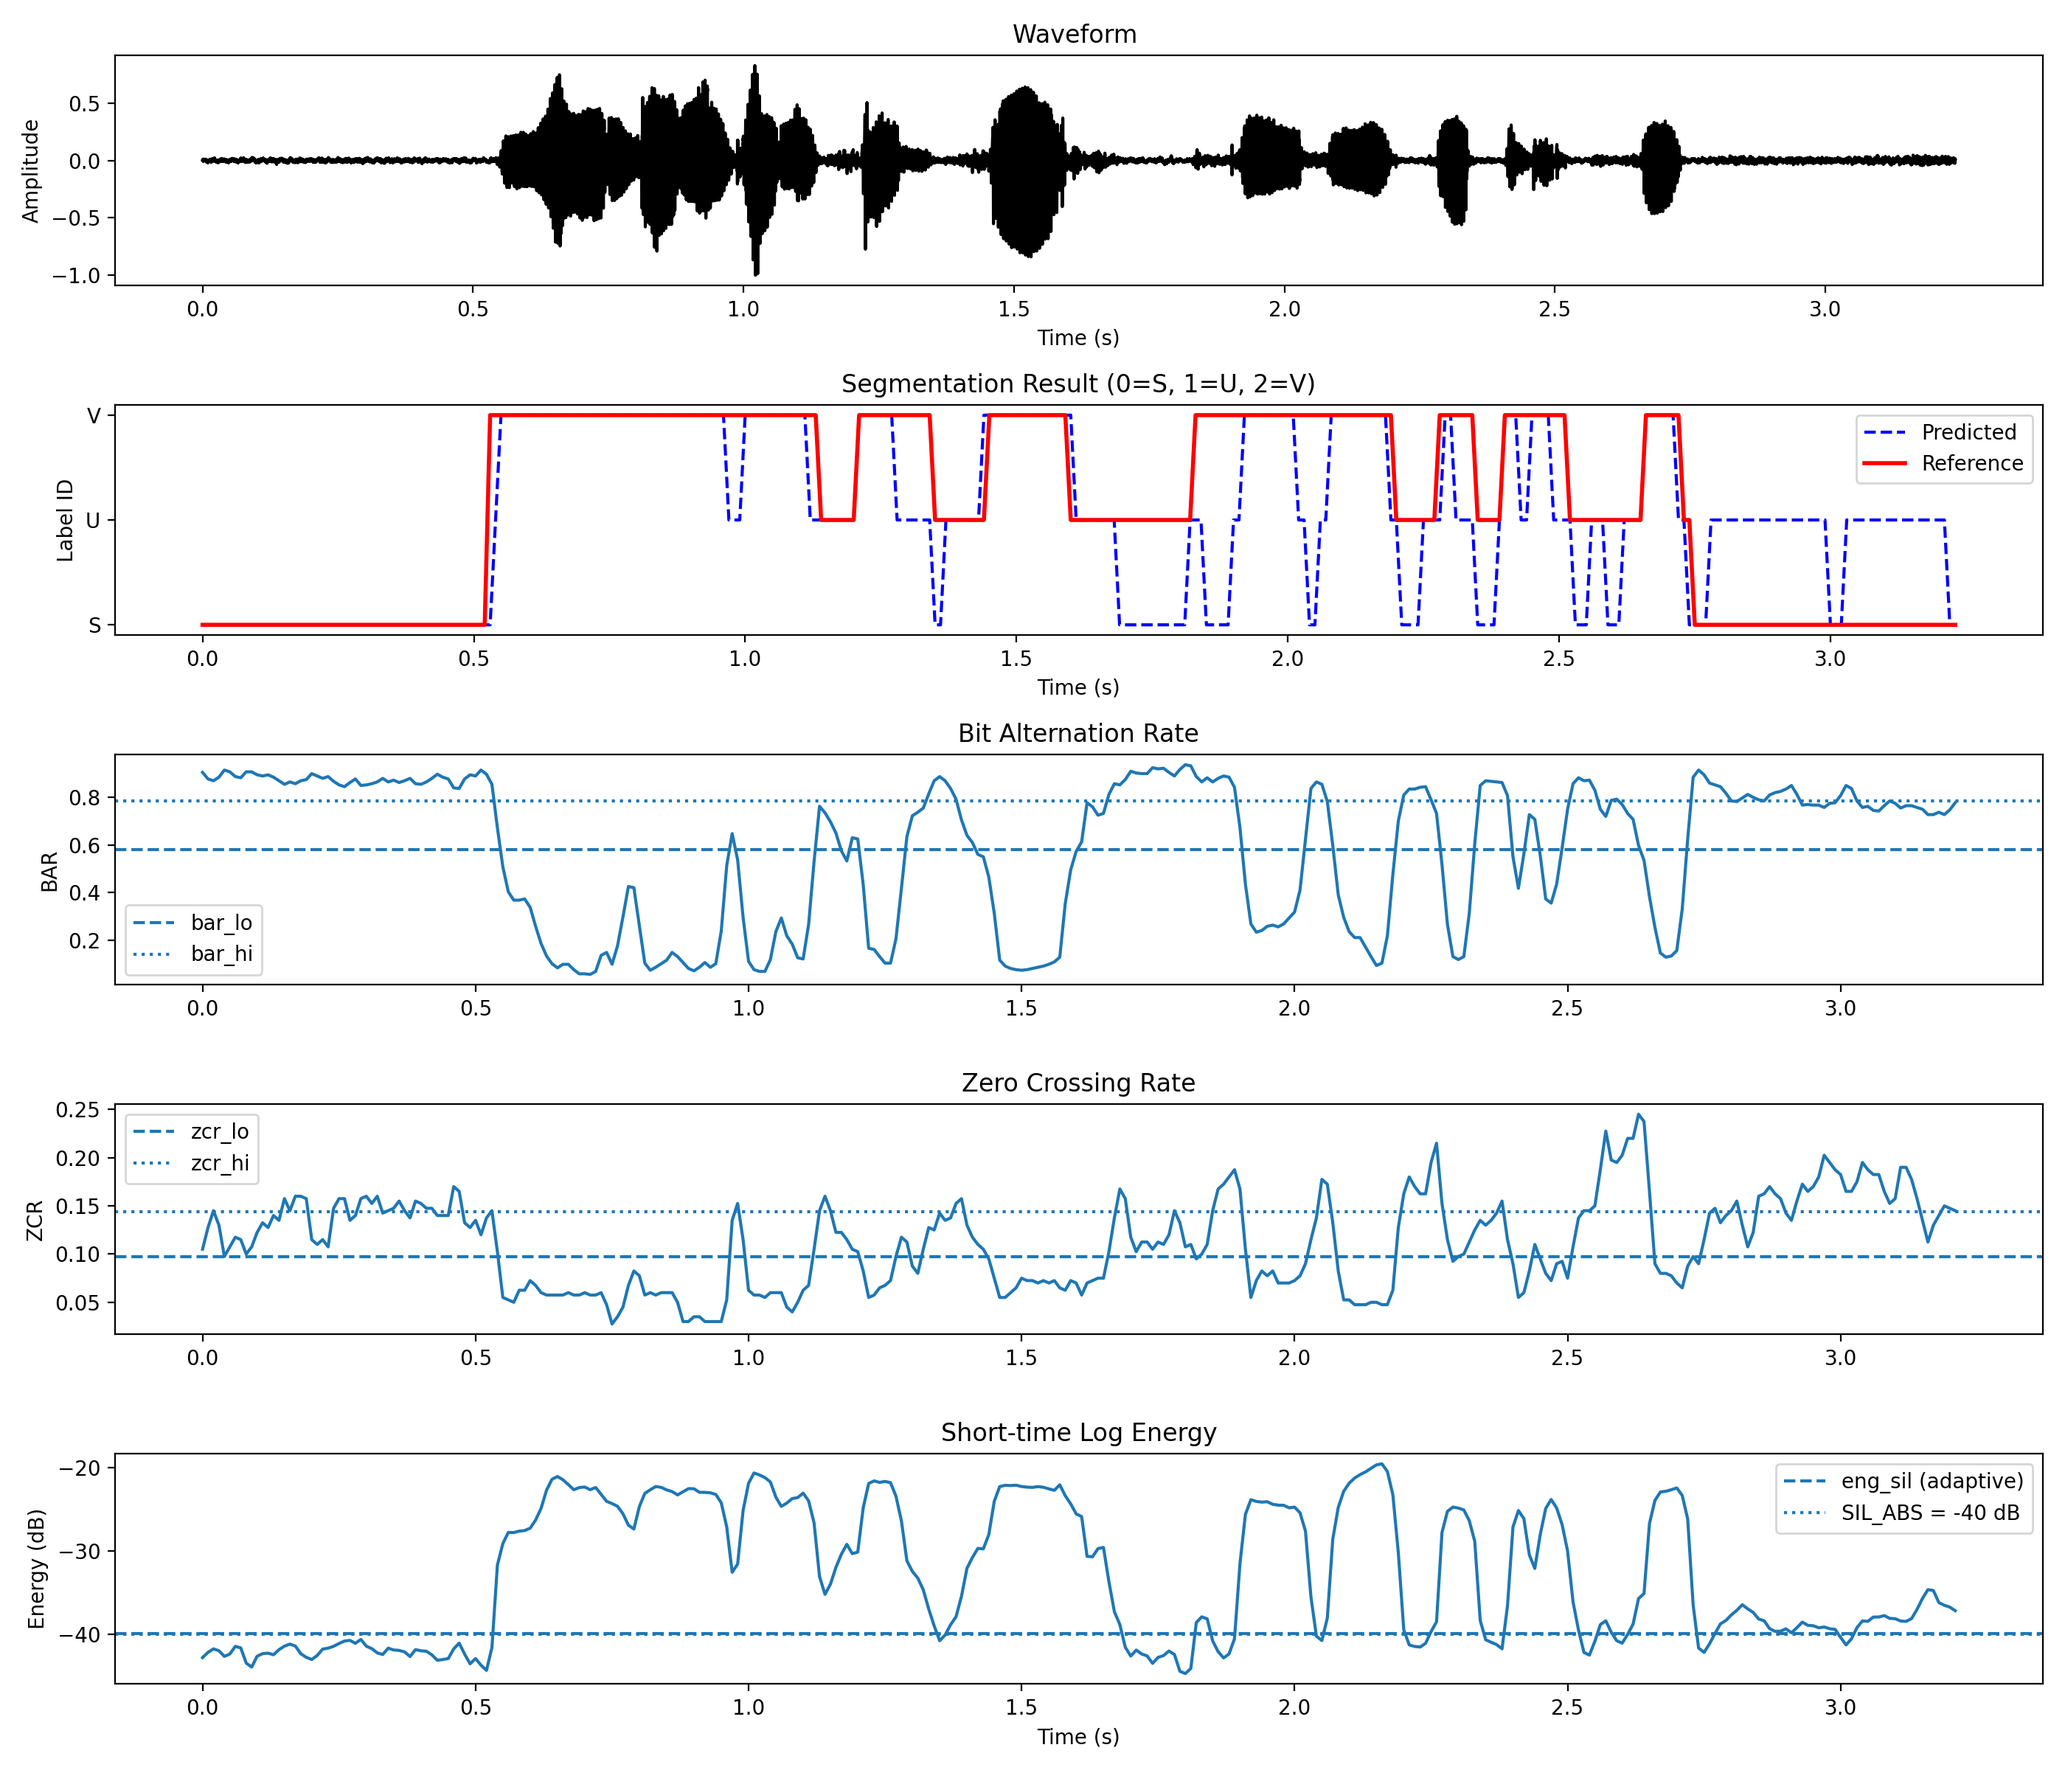
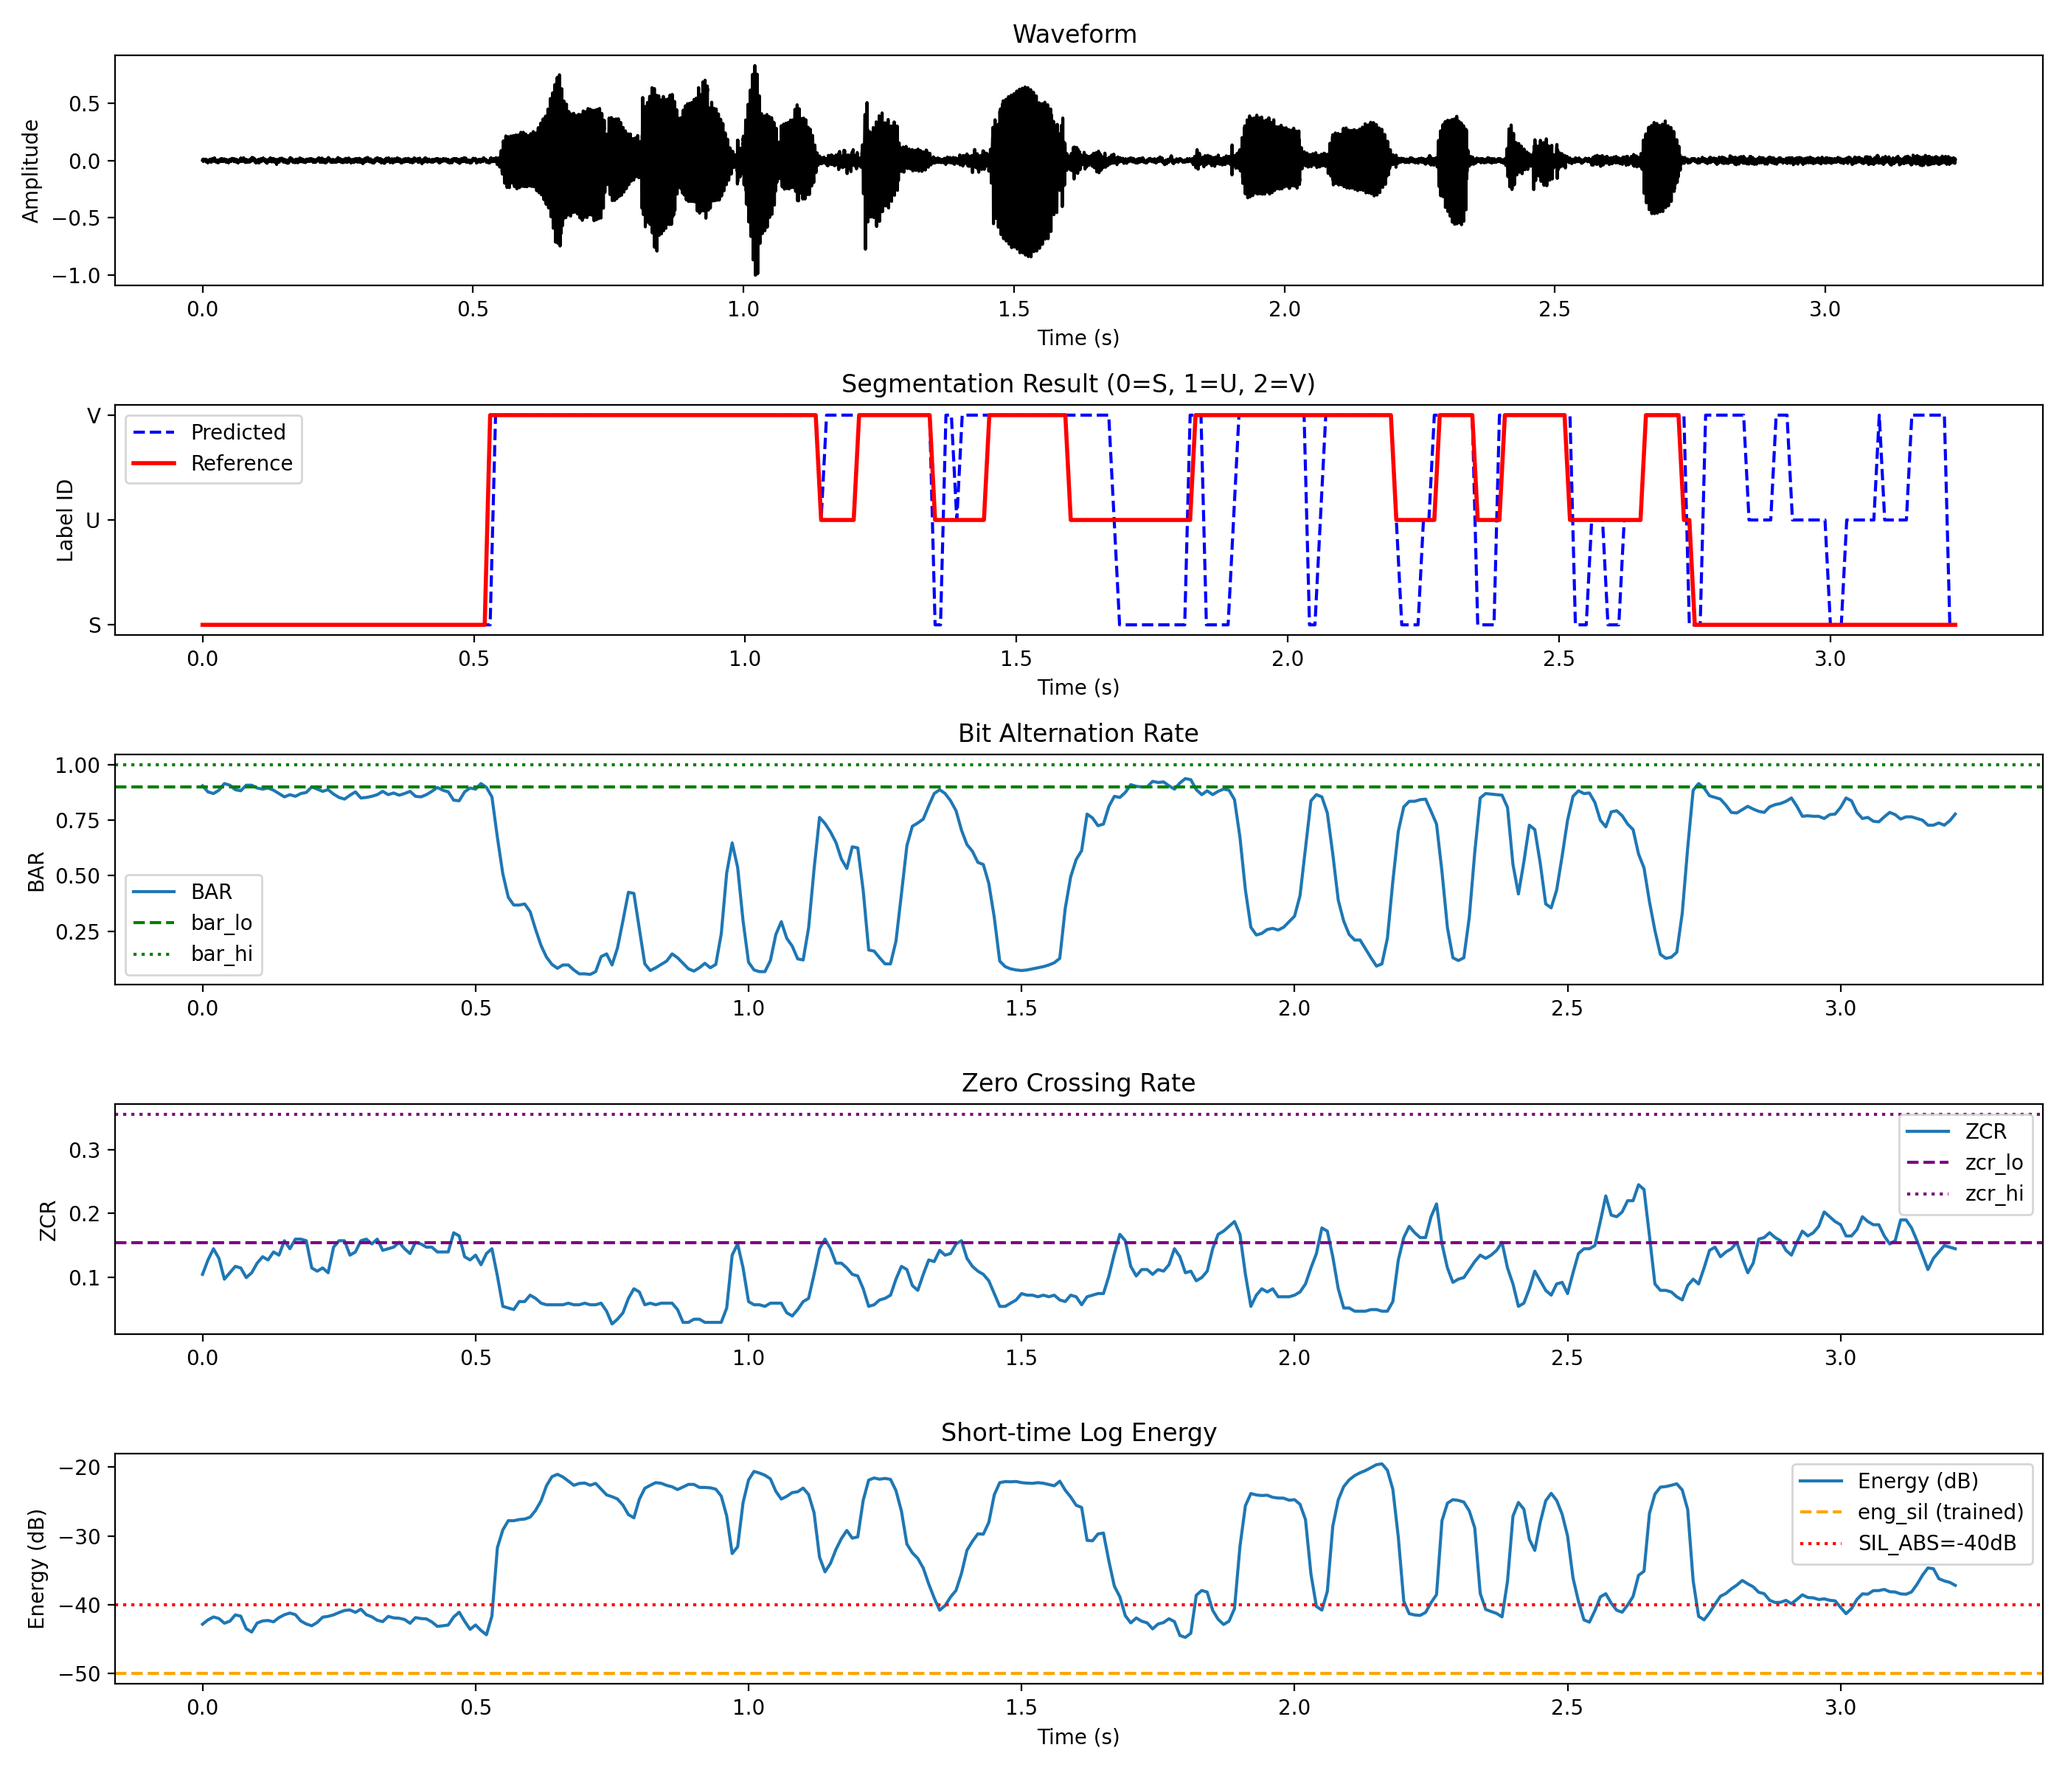
Bài tập 1 - XLTN - Phan Thanh Việt - 102220259

diff --git a/SUV_Classification_by_LDM/baitap1.py b/SUV_Classification_by_LDM/baitap1.py
@@ -3,9 +3,10 @@ import librosa
 import matplotlib.pyplot as plt
 from scipy.signal import butter, lfilter
 import os
+from itertools import product
 
 # =========================
-# 1) Linear Delta Modulation (LDM)
+# 1) LDM encode/decode
 # =========================
 def ldm_encode(x, step=0.02, x0=0.0):
     x = np.asarray(x, dtype=np.float64)
@@ -78,43 +79,26 @@ def extract_features(bits, y_dec_bp, fs, frame_ms=25, hop_ms=10):
     return feats, times, win, hop
 
 # =========================
-# 4) Adaptive thresholds
-# =========================
-def adaptive_thresholds(feats):
-    bar, zcr, eng = feats[:,0], feats[:,1], feats[:,2]
-    return dict(
-        bar_lo = np.percentile(bar, 40),
-        bar_hi = np.percentile(bar, 60),
-        zcr_lo = np.percentile(zcr, 40),
-        zcr_hi = np.percentile(zcr, 70),
-        eng_sil = np.percentile(eng, 30)
-
-    )
-
-# =========================
-# 5) Frame classification
+# 4) Frame classification
 # =========================
 def classify_frames(feats, thr):
     bar, zcr, eng = feats[:,0], feats[:,1], feats[:,2]
     labels = np.empty(len(feats), dtype='<U1')
 
-    # Silence
     SIL_ABS = -40
     sil_mask = (eng <= thr['eng_sil']) | (eng <= SIL_ABS)
     labels[sil_mask] = 'S'
 
-    # Voiced
     voiced_mask = (~sil_mask) & (bar <= thr['bar_lo']) & (zcr <= thr['zcr_lo'])
     labels[voiced_mask] = 'V'
 
-    # Unvoiced
     unvoiced_mask = (~sil_mask) & (~voiced_mask)
     labels[unvoiced_mask] = 'U'
 
     return labels
 
 # =========================
-# 6) Segment reconstruction
+# 5) Segment reconstruction
 # =========================
 def intervals_from_labels(times, labels, hop_ms):
     hop_sec = hop_ms/1000.0
@@ -128,7 +112,7 @@ def intervals_from_labels(times, labels, hop_ms):
     return segs
 
 # =========================
-# 7) Load reference labels
+# 6) Load reference labels
 # =========================
 def load_label_file(label_path):
     segs = []
@@ -147,7 +131,7 @@ def load_label_file(label_path):
     return segs
 
 # =========================
-# 8) MAE between boundaries
+# 7) MAE between boundaries
 # =========================
 def boundary_mae(segs_pred, segs_ref):
     b_pred = []
@@ -169,7 +153,7 @@ def boundary_mae(segs_pred, segs_ref):
     return float(np.mean(dists)), b_pred, b_ref
 
 # =========================
-# 9) Visualization (modified)
+# 8) Visualization
 # =========================
 def label_to_num(lab):
     if lab == 'S': return 0
@@ -190,7 +174,7 @@ def expand_segments(segs, hop_ms, fs, total_len):
 def plot_suving(x, fs, times, labels, feats, segs_pred, segs_ref=None, thr=None, hop_ms=10, save_png='suving_result.png'):
     plt.figure(figsize=(14,12))
 
-    # --- 1) Waveform only ---
+    # Waveform
     ax1 = plt.subplot(5,1,1)
     t = np.arange(len(x))/fs
     ax1.plot(t, x, color='black')
@@ -198,7 +182,7 @@ def plot_suving(x, fs, times, labels, feats, segs_pred, segs_ref=None, thr=None,
     ax1.set_xlabel('Time (s)')
     ax1.set_ylabel('Amplitude')
 
-    # --- 2) Segmentation comparison ---
+    # Segmentation
     ax2 = plt.subplot(5,1,2)
     pred_arr = expand_segments(segs_pred, hop_ms, fs, len(x))
     t_frames = np.arange(len(pred_arr)) * (hop_ms/1000.0)
@@ -213,35 +197,35 @@ def plot_suving(x, fs, times, labels, feats, segs_pred, segs_ref=None, thr=None,
     ax2.set_yticklabels(['S','U','V'])
     ax2.legend()
 
-    # --- 3) Feature plots ---
+    # Feature plots
     bar, zcr, eng = feats[:,0], feats[:,1], feats[:,2]
 
     ax3 = plt.subplot(5,1,3)
-    ax3.plot(times, bar)
+    ax3.plot(times, bar, label='BAR')
     ax3.set_ylabel('BAR')
     ax3.set_title('Bit Alternation Rate')
     if thr is not None:
-        ax3.axhline(thr.get('bar_lo', np.nan), linestyle='--', label='bar_lo')
-        ax3.axhline(thr.get('bar_hi', np.nan), linestyle=':', label='bar_hi')
+        ax3.axhline(thr.get('bar_lo', np.nan), linestyle='--', color='green', label='bar_lo')
+        ax3.axhline(thr.get('bar_hi', np.nan), linestyle=':', color='green', label='bar_hi')
         ax3.legend()
 
     ax4 = plt.subplot(5,1,4)
-    ax4.plot(times, zcr)
+    ax4.plot(times, zcr, label='ZCR')
     ax4.set_ylabel('ZCR')
     ax4.set_title('Zero Crossing Rate')
     if thr is not None:
-        ax4.axhline(thr.get('zcr_lo', np.nan), linestyle='--', label='zcr_lo')
-        ax4.axhline(thr.get('zcr_hi', np.nan), linestyle=':', label='zcr_hi')
+        ax4.axhline(thr.get('zcr_lo', np.nan), linestyle='--', color='purple', label='zcr_lo')
+        ax4.axhline(thr.get('zcr_hi', np.nan), linestyle=':', color='purple', label='zcr_hi')
         ax4.legend()
 
     ax5 = plt.subplot(5,1,5)
-    ax5.plot(times, eng)
+    ax5.plot(times, eng, label='Energy (dB)')
     ax5.set_ylabel('Energy (dB)')
     ax5.set_xlabel('Time (s)')
     ax5.set_title('Short-time Log Energy')
     if thr is not None:
-        ax5.axhline(thr.get('eng_sil', np.nan), linestyle='--', label='eng_sil (adaptive)')
-        ax5.axhline(-40, linestyle=':', label='SIL_ABS = -40 dB')
+        ax5.axhline(thr.get('eng_sil', np.nan), linestyle='--', color='orange', label='eng_sil (trained)')
+        ax5.axhline(-40, linestyle=':', color='red', label='SIL_ABS=-40dB')
         ax5.legend()
 
     plt.tight_layout()
@@ -249,27 +233,116 @@ def plot_suving(x, fs, times, labels, feats, segs_pred, segs_ref=None, thr=None,
     plt.show()
 
 # =========================
-# 10) Full pipeline
+# 9) Labels utility
 # =========================
-def suving_pipeline(wav_path, label_path, frame_ms=25, hop_ms=10, ldm_step=0.02, target_fs=16000, save_png='suving_result.png'):
+def labels_from_file(label_path, times, hop_ms):
+    segs = load_label_file(label_path)
+    arr = np.empty(len(times), dtype='<U1')
+    idx = 0
+    for s,e,L in segs:
+        while idx < len(times) and times[idx] < s:
+            arr[idx] = 'S'
+            idx +=1
+        while idx < len(times) and times[idx] <= e:
+            arr[idx] = L
+            idx +=1
+    while idx < len(times):
+        arr[idx] = 'S'
+        idx +=1
+    return arr
+
+def frame_mae(pred_labels, ref_labels):
+    diff = pred_labels != ref_labels
+    return np.mean(diff)
+
+# =========================
+# 10) Trực quan hóa threshold
+# =========================
+def visualize_thresholds(features, thr):
+    bar, zcr, eng = features[:,0], features[:,1], features[:,2]
+
+    plt.figure(figsize=(14,4))
+
+    plt.subplot(1,3,1)
+    plt.hist(bar, bins=50, color='skyblue', alpha=0.7)
+    plt.axvline(thr['bar_lo'], color='green', linestyle='--', label='bar_lo')
+    plt.axvline(thr['bar_hi'], color='green', linestyle=':', label='bar_hi')
+    plt.title('BAR distribution with thresholds'); plt.xlabel('BAR'); plt.ylabel('Count'); plt.legend()
+
+    plt.subplot(1,3,2)
+    plt.hist(zcr, bins=50, color='plum', alpha=0.7)
+    plt.axvline(thr['zcr_lo'], color='purple', linestyle='--', label='zcr_lo')
+    plt.axvline(thr['zcr_hi'], color='purple', linestyle=':', label='zcr_hi')
+    plt.title('ZCR distribution with thresholds'); plt.xlabel('ZCR'); plt.ylabel('Count'); plt.legend()
+
+    plt.subplot(1,3,3)
+    plt.hist(eng, bins=50, color='orange', alpha=0.7)
+    plt.axvline(thr['eng_sil'], color='red', linestyle='--', label='eng_sil')
+    plt.title('Energy distribution with thresholds'); plt.xlabel('Energy (dB)'); plt.ylabel('Count'); plt.legend()
+
+    plt.tight_layout()
+    plt.show()
+
+# =========================
+# 11) Grid search threshold
+# =========================
+def optimize_thresholds(files, frame_ms=25, hop_ms=10, ldm_step=0.02, target_fs=16000):
+    all_feats = []
+    all_labels = []
+
+    for wav_path, lab_path in files:
+        x, fs = librosa.load(wav_path, sr=target_fs, mono=True)
+        x = x / (np.max(np.abs(x)) + 1e-12)
+        bits, y_dec = ldm_encode(x, step=ldm_step)
+        y_dec_bp = bandpass_filter(y_dec, fs)
+        feats, times, win, hop = extract_features(bits, y_dec_bp, fs, frame_ms, hop_ms)
+        labels = labels_from_file(lab_path, times, hop_ms)
+        all_feats.append(feats)
+        all_labels.append(labels)
+
+    all_feats = np.vstack(all_feats)
+    all_labels = np.concatenate(all_labels)
+
+    bar_lo_range = np.linspace(0.1, 0.9, 5)
+    zcr_lo_range = np.linspace(0.01, 0.3, 5)
+    eng_sil_range = np.linspace(-50, -20, 5)
+
+    best_mae = 1.0
+    best_thr = None
+
+    for bar_lo, zcr_lo, eng_sil in product(bar_lo_range, zcr_lo_range, eng_sil_range):
+        thr = dict(bar_lo=bar_lo, zcr_lo=zcr_lo, eng_sil=eng_sil)
+        thr['bar_hi'] = min(bar_lo+0.2,1.0)
+        thr['zcr_hi'] = min(zcr_lo+0.2,1.0)
+        labels_pred = classify_frames(all_feats, thr)
+        mae = frame_mae(labels_pred, all_labels)
+        if mae < best_mae:
+            best_mae = mae
+            best_thr = thr
+
+    print("Training MAE:", best_mae)
+    visualize_thresholds(all_feats, best_thr)
+    return best_thr
+
+# =========================
+# 12) Test file
+# =========================
+def test_file(wav_path, lab_path, thr, frame_ms=25, hop_ms=10, ldm_step=0.02, target_fs=16000, save_png='suving_result.png'):
     x, fs = librosa.load(wav_path, sr=target_fs, mono=True)
-    x = x / (np.max(np.abs(x))+1e-12)
-
+    x = x / (np.max(np.abs(x)) + 1e-12)
     bits, y_dec = ldm_encode(x, step=ldm_step)
-    y_dec_bp = bandpass_filter(y_dec, fs, 300.0, 3400.0)
-
+    y_dec_bp = bandpass_filter(y_dec, fs)
     feats, times, win, hop = extract_features(bits, y_dec_bp, fs, frame_ms, hop_ms)
-    thr = adaptive_thresholds(feats)
     labels = classify_frames(feats, thr)
     segs_pred = intervals_from_labels(times, labels, hop_ms)
-
-    segs_ref = load_label_file(label_path)
+    segs_ref = load_label_file(lab_path)
     mae, b_pred, b_ref = boundary_mae(segs_pred, segs_ref)
-
-    return x, fs, times, labels, feats, segs_pred, segs_ref, thr, mae, b_pred, b_ref
+    plot_suving(x, fs, times, labels, feats, segs_pred, segs_ref, thr, hop_ms, save_png)
+    print(f"File: {wav_path}, MAE = {mae:.3f} sec")
+    return mae
 
 # =========================
-# 11) Example run
+# 13) Main
 # =========================
 if __name__=="__main__":
     files = [
@@ -279,16 +352,11 @@ if __name__=="__main__":
         ("TinHieuHuanLuyen/studio_M1.wav", "TinHieuHuanLuyen/studio_M1.lab"),
     ]
     BASE_DIR = os.path.dirname(os.path.abspath(__file__))
+
+    # Huấn luyện threshold
+    thr_opt = optimize_thresholds(files)
+
+    # Test từng file
     for i, (wav, lab) in enumerate(files, 1):
         save_name = os.path.join(BASE_DIR, f"result_{i}.png")
-        x, fs, times, labels, feats, segs_pred, segs_ref, thr, mae, b_pred, b_ref = suving_pipeline(
-            wav, lab, save_png=save_name
-        )
-        
-        # gọi thêm hàm plot để vẽ và lưu biểu đồ
-        plot_suving(
-            x, fs, times, labels, feats, segs_pred, segs_ref, thr,
-            save_png=save_name
-        )
-        
-        print(f"Result {i}: MAE = {mae:.3f} sec (saved {save_name})")
+        test_file(wav, lab, thr_opt, save_png=save_name)
